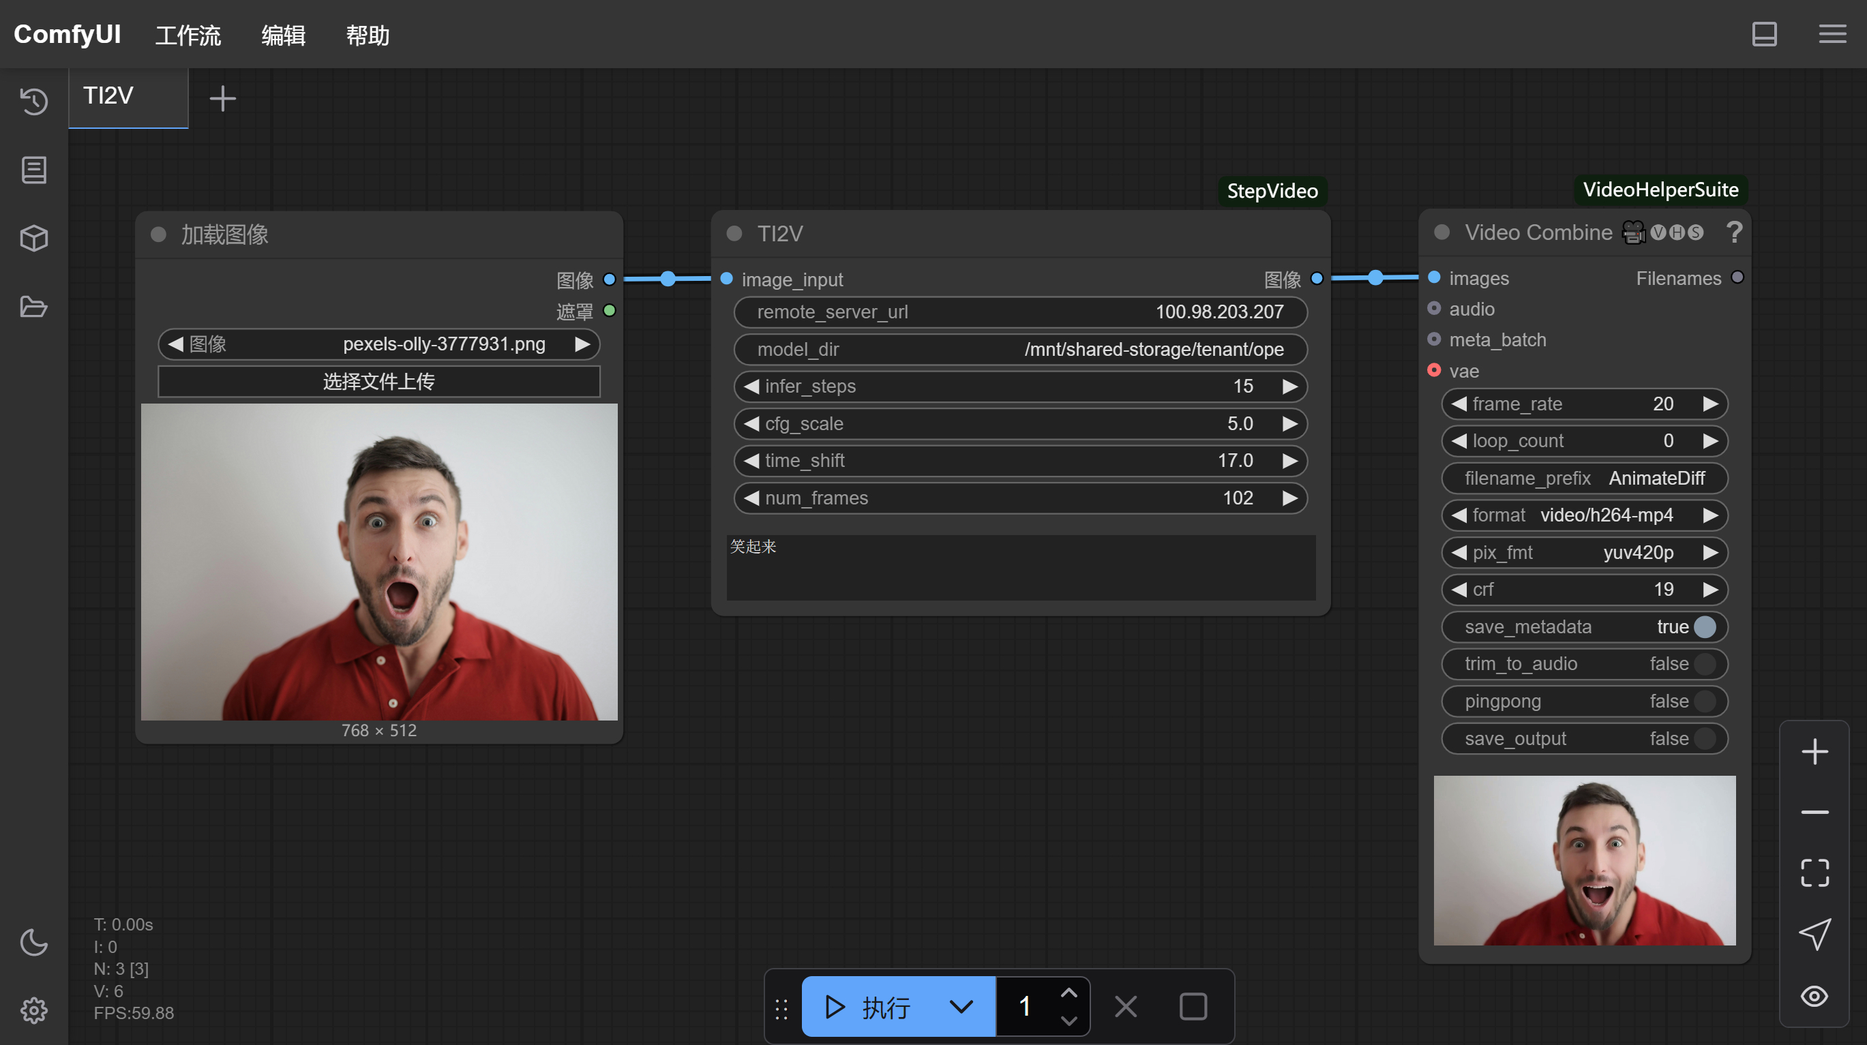
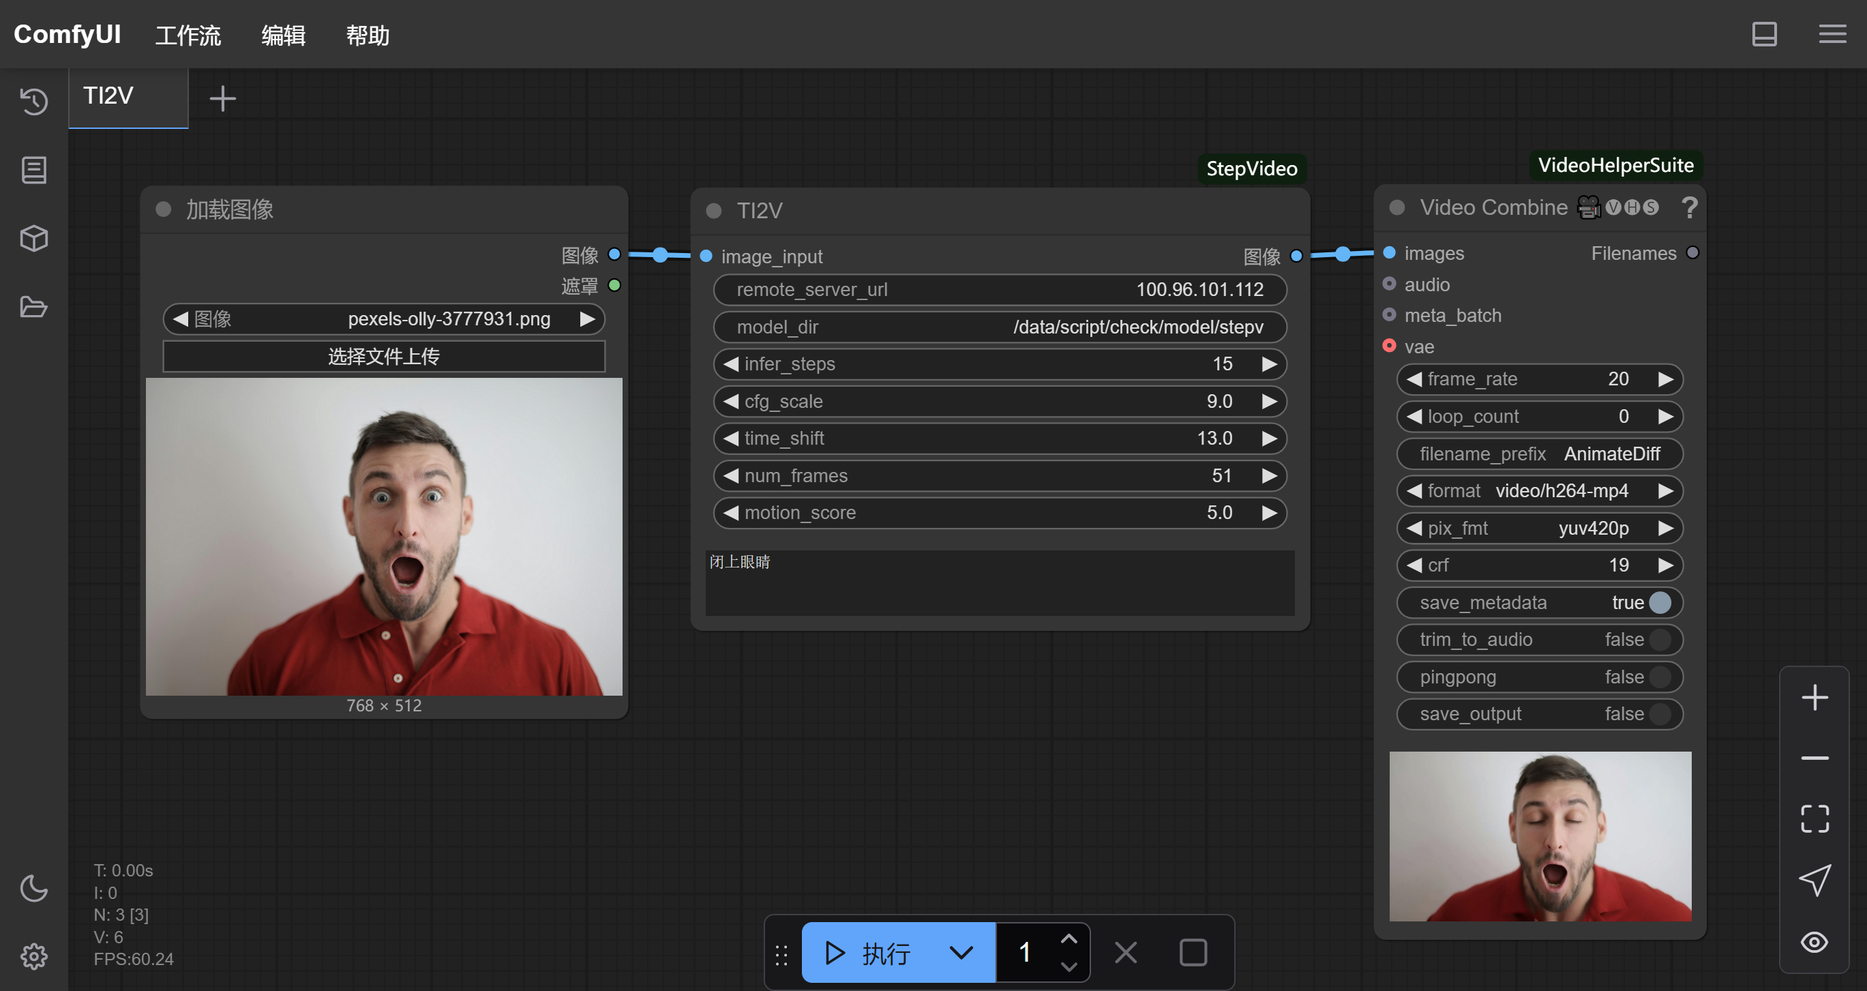
update motion score and default params

diff --git a/node.py b/node.py
@@ -32,24 +32,24 @@ class TI2V:
                     "lazy": True
                 }),
                 "infer_steps": ("INT", {
-                    "default": 15, 
+                    "default": 50, 
                     "min": 0, #Minimum value
-                    "max": 50, #Maximum value
+                    "max": 100, #Maximum value
                     "step": 1, #Slider's step
                     "display": "number", # Cosmetic only: display as "number" or "slider"
                     # "lazy": True # Will only be evaluated if check_lazy_status requires it
                 }),
                 "cfg_scale": ("FLOAT", {
-                    "default": 5.0,
+                    "default": 9,
                     "min": 0.0,
-                    "max": 20.0,
+                    "max": 50.0,
                     "step": 0.1,
                     # "round": 0.001, #The value representing the precision to round to, will be set to the step value by default. Can be set to False to disable rounding.
                     "display": "number",
                     # "lazy": True
                 }),
                 "time_shift": ("FLOAT", {
-                    "default": 17.0,
+                    "default": 13.0,
                     "min": 0.0,
                     "max": 50.0,
                     "step": 0.1,
@@ -60,10 +60,19 @@ class TI2V:
                 "num_frames": ("INT", {
                     "default": 102, 
                     "min": 0, #Minimum value
-                    "max": 150, #Maximum value
+                    "max": 204, #Maximum value
                     "step": 1, #Slider's step
                     "display": "number", # Cosmetic only: display as "number" or "slider"
                     # "lazy": True # Will only be evaluated if check_lazy_status requires it
+                }),
+                "motion_score": ("FLOAT", {
+                    "default": 5,
+                    "min": 0.0,
+                    "max": 50.0,
+                    "step": 0.1,
+                    # "round": 0.001, #The value representing the precision to round to, will be set to the step value by default. Can be set to False to disable rounding.
+                    "display": "number",
+                    # "lazy": True
                 }),
                 "text_prompt": ("STRING", {
                     "multiline": True,
@@ -76,7 +85,7 @@ class TI2V:
     RETURN_TYPES = ("IMAGE",)
     FUNCTION = "ti2v"
 
-    def ti2v(self, image_input, remote_server_url, model_dir, infer_steps, cfg_scale, time_shift, num_frames, text_prompt):
+    def ti2v(self, image_input, remote_server_url, model_dir, infer_steps, cfg_scale, time_shift, num_frames, motion_score, text_prompt):
         script_dir = 'custom_nodes/ComfyUI-StepVideo/Step-Video-TI2V'
         os.makedirs(f'{script_dir}/results', exist_ok=True)
         
@@ -85,7 +94,7 @@ class TI2V:
 
         parallel = 4 #
 
-        command = f'cd {script_dir} && torchrun --nproc_per_node {parallel} run_parallel.py --model_dir {model_dir} --vae_url {remote_server_url} --caption_url {remote_server_url}  --ulysses_degree {parallel} --first_image_path results/{task_name}_img.png --prompt "{text_prompt}" --infer_steps {infer_steps}  --cfg_scale {cfg_scale} --time_shift {time_shift} --num_frames {num_frames} --output_file_name {task_name}_vid'
+        command = f'cd {script_dir} && torchrun --nproc_per_node {parallel} run_parallel.py --model_dir {model_dir} --vae_url {remote_server_url} --caption_url {remote_server_url}  --ulysses_degree {parallel} --first_image_path results/{task_name}_img.png --prompt "{text_prompt}" --infer_steps {infer_steps}  --cfg_scale {cfg_scale} --time_shift {time_shift} --num_frames {num_frames} --output_file_name {task_name}_vid --motion_score {motion_score} --name_suffix comfyui'
         os.system(command)
 
         video_path = f'{script_dir}/results/{task_name}_vid-comfyui.mp4'

diff --git a/Step-Video-TI2V/stepvideo/config.py b/Step-Video-TI2V/stepvideo/config.py
@@ -156,13 +156,16 @@ def add_inference_args(parser: argparse.ArgumentParser):
 
     # Classifier-Free Guidance
     group.add_argument(
-        "--pos_magic", type=str, default="超高清、HDR 视频、环境光、杜比全景声、画面稳定、流畅动作、逼真的细节、专业级构图、超现实主义、自然、生动、超细节、清晰。", help="Positive magic prompt for sampling."
+        "--pos_magic", type=str, default="画面中的主体动作表现生动自然、画面流畅、生动细节、光线统一柔和、超真实动态捕捉、大师级运镜、整体不变形、超高清、画面稳定、逼真的细节、专业级构图、超细节、清晰。", help="Positive magic prompt for sampling."
     )
     group.add_argument(
-        "--neg_magic", type=str, default="画面暗、低分辨率、不良手、文本、缺少手指、多余的手指、裁剪、低质量、颗粒状、签名、水印、用户名、模糊。", help="Negative magic prompt for sampling."
+        "--neg_magic", type=str, default="动画、模糊、变形、毁容、低质量、拼贴、粒状、标志、抽象、插图、计算机生成、扭曲、动作不流畅、面部有褶皱、表情僵硬、畸形手指", help="Negative magic prompt for sampling."
     )
     group.add_argument(
         "--cfg_scale", type=float, default=9.0, help="Classifier free guidance scale."
+    )
+    group.add_argument(
+        "--motion_score", type=float, default=5, help="Score to control the motion level of the video."
     )
 
 

diff --git a/Step-Video-TI2V/stepvideo/diffusion/video_pipeline.py b/Step-Video-TI2V/stepvideo/diffusion/video_pipeline.py
@@ -83,7 +83,7 @@ class StepVideoPipeline(DiffusionPipeline):
         vae_url: str = '127.0.0.1',
         caption_url: str = '127.0.0.1',
         save_path: str = './results',
-        name_suffix: str = 'comfyui',
+        name_suffix: str = '',
     ):
         super().__init__()
 
@@ -99,7 +99,13 @@ class StepVideoPipeline(DiffusionPipeline):
         self.vae_url = vae_url
         self.caption_url = caption_url
         self.setup_api(self.vae_url, self.caption_url)
-        
+    
+    def setup_pipeline(self, args):
+        self.args = args
+        self.video_processor = VideoProcessor(self.args.save_path, self.args.name_suffix)
+        self.setup_api(args.vae_url, args.caption_url)
+        return self
+
     def setup_api(self, vae_url, caption_url):
         self.vae_url = vae_url
         self.caption_url = caption_url

diff --git a/Step-Video-TI2V/run_parallel.py b/Step-Video-TI2V/run_parallel.py
@@ -18,10 +18,7 @@ if __name__ == "__main__":
     pipeline = StepVideoPipeline.from_pretrained(args.model_dir).to(dtype=torch.bfloat16, device="cpu")
 
     pipeline.transformer = pipeline.transformer.to(device)
-    pipeline.setup_api(
-        vae_url = args.vae_url,
-        caption_url = args.caption_url,
-    )
+    pipeline.setup_pipeline(args)
     
     
     prompt = args.prompt
@@ -36,7 +33,8 @@ if __name__ == "__main__":
         time_shift=args.time_shift,
         pos_magic=args.pos_magic,
         neg_magic=args.neg_magic,
-        output_file_name=args.output_file_name
+        output_file_name=args.output_file_name,
+        motion_score=args.motion_score
     )
     
     dist.destroy_process_group()

diff --git a/Step-Video-TI2V/README.md b/Step-Video-TI2V/README.md
@@ -1,5 +1,3 @@
-# Step-Video-Ti2V
-
 <p align="center">
   <img src="assets/logo.png"  height=100>
 </p>
@@ -14,16 +12,186 @@
 </div>
 
 ## 🔥🔥🔥 News!!
-* Feb 17, 2025: 👋 We release the inference code and model weights of Step-Video-Ti2V. [Download](https://huggingface.co/stepfun-ai/stepvideo-ti2v)
-* Feb 17, 2025: 🎉 We have made our technical report available as open source. [Read](https://arxiv.org/abs/2502.10248)
+* Mar 17, 2025: 👋 We release the inference code and model weights of Step-Video-Ti2V. [Download](https://huggingface.co/stepfun-ai/stepvideo-ti2v)
+* Mar 17, 2025: 🎉 We have made our technical report available as open source. [Read](https://arxiv.org/abs/2502.10248)
 
+
+
+
+
+## Motion Control
+
+<table border="0" style="width: 100%; text-align: center; margin-top: 1px;">
+  <tr>
+    <td><video src="https://github.com/user-attachments/assets/3c6a5c8d-ada4-484f-8f3d-f2a99ef18a4b" width="30%" controls autoplay loop muted></video></td>
+    <td><video src="https://github.com/user-attachments/assets/90c608d9-b3cf-40fa-b4ee-21b682c840ae" width="30%" controls autoplay loop muted></video></td>
+    <td><video src="https://github.com/user-attachments/assets/e58d3a6b-0076-4587-aac5-6911ba4c776d" width="30%" controls autoplay loop muted></video></td>
+  </tr>
+</table>
+
+## Motion Amplitude Control
+
+<table border="0" style="width: 100%; text-align: center; margin-top: 10px;">
+  <tr>
+    <th style="width: 33%;">Motion = 2</th>
+    <th style="width: 33%;">Motion = 5</th>
+    <th style="width: 33%;">Motion = 10</th>
+  </tr>
+  <tr>
+    <td><video src="https://github.com/user-attachments/assets/0d6b1813-2bf0-462a-8ad4-c0583d83afc5" width="33%" controls autoplay loop muted></video></td>
+    <td><video src="https://github.com/user-attachments/assets/33699654-93cc-4205-8a47-93ece4282f72" width="33%" controls autoplay loop muted></video></td>
+    <td><video src="https://github.com/user-attachments/assets/52d73eb5-2c68-4de3-9019-516243804b2c" width="33%" controls autoplay loop muted></video></td>
+  </tr>
+</table>
+
+<table border="0" style="width: 100%; text-align: center; margin-top: 10px;">
+  <tr>
+    <th style="width: 33%;">Motion = 2</th>
+    <th style="width: 33%;">Motion = 5</th>
+    <th style="width: 33%;">Motion = 20</th>
+  </tr>
+  <tr>
+    <td><video src="https://github.com/user-attachments/assets/31c48385-fe83-4961-bd42-7bd2b1edeb19" width="33%" controls autoplay loop muted></video></td>
+    <td><video src="https://github.com/user-attachments/assets/913a407e-55ca-4a33-bafe-bd5e38eec5f5" width="33%" controls autoplay loop muted></video></td>
+    <td><video src="https://github.com/user-attachments/assets/119a3673-014f-4772-b846-718307a4a412" width="33%" controls autoplay loop muted></video></td>
+  </tr>
+</table>
+
+🎯 Tips 
+The default motion_score = 5 is suitable for general use. If you need more stability, set motion_score = 2, though it may be less responsive to certain movements. For greater movement flexibility, you can use motion_score = 10 or motion_score = 20 to enable more intense actions. Feel free to customize the motion_score based on your creative needs to fit different use cases.
+
+## Camera Control
+
+<table border="0" style="width: 100%; text-align: center; margin-top: 1px;">
+  <tr>
+    <th style="width: 33%;">镜头环绕</th>
+    <th style="width: 33%;">镜头推进</th>
+    <th style="width: 33%;">镜头拉远</th>
+  </tr>
+  <tr>
+    <td><video src="https://github.com/user-attachments/assets/257847bc-5967-45ba-a649-505859476aad" height="30%" controls autoplay loop muted></video></td>
+    <td><video src="https://github.com/user-attachments/assets/d310502a-4f7e-4a78-882f-95c46b4dfe67" height="30%" controls autoplay loop muted></video></td>
+    <td><video src="https://github.com/user-attachments/assets/f6426fc7-2a18-474c-9766-fc8ae8d8d40d" height="30%" controls autoplay loop muted></video></td>
+  </tr>
+</table>
+
+<table border="0" style="width: 100%; text-align: center; margin-top: 1px;">
+  <tr>
+    <th style="width: 33%;">镜头固定</th>
+    <th style="width: 33%;">镜头左移</th>
+    <th style="width: 33%;">镜头右摇</th>
+  </tr>
+  <tr>
+    <td><video src="https://github.com/user-attachments/assets/f78f76a0-afe1-41b1-9914-f2f508c6ea50" width="30%" controls autoplay loop muted></video></td>
+    <td><video src="https://github.com/user-attachments/assets/3894ec0f-d483-41fe-8331-68b6e5bf6544" width="30%" controls autoplay loop muted></video></td>
+    <td><video src="https://github.com/user-attachments/assets/9de3aa20-c797-4dac-bef1-ee064ed96ed4" width="30%" controls autoplay loop muted></video></td>
+  </tr>
+</table>
+
+🎥 Camera Motion Tips
+Fixed Camera
+Pan (Up/Down/Left/Right)
+Tilt (Up/Down/Left/Right)
+Zoom In / Zoom Out
+Dolly In / Dolly Out
+Camera Rotation
+Tracking Shot (Follow xxx)
+Orbit Shot (Circle Around xxx)
+Rack Focus (Focus Shift)
+Camera Shake
+High-Angle Dolly In / Dolly Out
+
+🎬 Advanced Movements
+Dolly Zoom (Hitchcock Effect)
+Grammy-Style Motion
+
+<table border="0" style="width: 100%; text-align: center; margin-top: 1px;">
+  <tr>
+    <th style="width: 50%;">摄像机从下到中顺时针绕人物移动，镜头推远，1秒后慢镜头拍摄，人物从斜侧背对镜头，转过身正面面对镜头</th>
+    <th style="width: 50%;">摄像机从下到中顺时针绕人物90度移动，镜头拉近，1秒后慢镜头拍摄，人物从背对镜头，身体逆时针旋转 180 度最终正对镜头</th>
+  </tr>
+  <tr>
+    <td><video src="https://github.com/user-attachments/assets/e2931131-e159-44ea-91a8-82bfe7886447" height="10%" width="50%" controls autoplay loop muted></video></td>
+    <td><video src="https://github.com/user-attachments/assets/6e4b893a-51bf-49b0-8335-13674da3162b" height="10%" width="50%" controls autoplay loop muted></video></td>
+  </tr>
+</table>
+
+
+🔧 Motion Score Considerations
+Certain camera movements, especially tracking shots, orbit shots, and complex motion effects, work significantly better with motion_score = 5 or 10 rather than motion_score = 2. Choosing the right setting can greatly enhance motion smoothness and accuracy.
+## Visual Effects
+
+<table border="0" style="width: 100%; text-align: center; margin-top: 1px;">
+  <tr>
+    <th style="width: 33%;">机器人变身特效</th>
+    <th style="width: 33%;">机器人变身特效</th>
+    <th style="width: 33%;">机器人变身特效</th>
+  </tr>
+  <tr>
+    <td><video src="https://github.com/user-attachments/assets/8fc6cc28-802c-4eff-bb18-6d512386d1f5" height="30%" controls autoplay loop muted></video></td>
+    <td><video src="https://github.com/user-attachments/assets/a6e4c817-3847-4ece-8b14-c57c4f666ba5" height="30%" controls autoplay loop muted></video></td>
+    <td><video src="https://github.com/user-attachments/assets/3cc15523-4dbe-4a39-9a1f-71fd2aeebf98" height="30%" controls autoplay loop muted></video></td>
+  </tr>
+</table>
+
+<table border="0" style="width: 100%; text-align: center; margin-top: 1px;">
+  <tr>
+    <th style="width: 33%;">毒液变身特效</th>
+    <th style="width: 33%;">机器人变身特效</th>
+    <th style="width: 33%;">毒液变身特效</th>
+  </tr>
+  <tr>
+    <td><video src="https://github.com/user-attachments/assets/b2fbc737-b6b5-480a-b747-09ee58058a05" height="30%" controls autoplay loop muted></video></td>
+    <td><video src="https://github.com/user-attachments/assets/ba19d48e-0e99-4dd6-8efb-f9c7f21372a6" height="30%" controls autoplay loop muted></video></td>
+    <td><video src="https://github.com/user-attachments/assets/b3e27eda-8127-4680-8da1-99fa0281335d" height="30%" controls autoplay loop muted></video></td>
+  </tr>
+</table>
+
+
+
+
+## Table of Contents
+
+1. [Introduction](#1-introduction)
+2. [Model Summary](#2-model-summary)
+3. [Model Download](#3-model-download)
+4. [Model Usage](#4-model-usage)
+5. [Benchmark](#5-benchmark)
+6. [Online Engine](#6-online-engine)
+7. [Citation](#7-citation)
+8. [Acknowledgement](#8-ackownledgement)
+
+
+
+## 1. Introduction
+We present Step-Video-TI2V, a state-of-the-art text-driven image-to-video generation model with 30B parameters, capable of generating videos up to 102 frames
+based on both text and image inputs. We build Step-Video-TI2V-Eval as a new benchmark for the text-driven image-to-video task and compare Step-Video-TI2V
+with open-source and commercial TI2V engines using this dataset. Experimental results demonstrate the state-of-the-art performance of Step-Video-TI2V in the
+image-to-video generation task. Both Step-Video-TI2V and Step-Video-TI2V-Eval are available.
+
+## 2. Model Summary
+Step-Video-TI2V based on Step-Video-T2V. To incorporate the image condition as the first frame of the generated video, we encode it into latent representations using Step-Video- T2V’s Video-VAE and concatenate them along the channel dimension of the video latent. Additionally, we introduce a motion score condition, enabling users to control the dynamic level of the video generated from the image condition. Figure 1 shows an overview of our framework, highlighting these two modifications to the pre-trained T2V model. 
+
+<p align="center">
+  <img width="80%" src="assets/model.png">
+</p>
+
+## 3. Model Download
+| Models   | 🤗Huggingface    |  🤖Modelscope |
+|:-------:|:-------:|:-------:|
+| Step-Video-T2V | [download](https://huggingface.co/stepfun-ai/stepvideo-ti2v) | 
+
+
+## 4. Model Usage
+
+### 📜 4.1  Dependencies and Installation
 
 ```bash
 git clone https://github.com/stepfun-ai/Step-Video-TI2V.git
 conda create -n stepvideo python=3.10
 conda activate stepvideo
 
-cd StepFun-StepVideo
+cd Step-Video-TI2V
 pip install -e .
 ```
 
@@ -35,5 +203,59 @@ parallel=4  # or parallel=8
 url='127.0.0.1'
 model_dir=where_you_download_dir
 
-torchrun --nproc_per_node $parallel run_parallel --model_dir $model_dir --vae_url $url --caption_url $url  --ulysses_degree  $parallel --prompt "笑起来" --infer_steps 15  --cfg_scale 5.0 --time_shift 17.0
+torchrun --nproc_per_node $parallel run_parallel.py --model_dir $model_dir --vae_url $url --caption_url $url  --ulysses_degree  $parallel --prompt "笑起来" --first_image_path ./assets/demo.png --infer_steps 50  --cfg_scale 9.0 --time_shift 13.0 --motion_score 5.0
 ```
+
+We list some more useful configurations for easy usage:
+
+|        Argument        |  Default  |                Description                |
+|:----------------------:|:---------:|:-----------------------------------------:|
+|       `--model_dir`       |   None    |   The model checkpoint for video generation    |
+|     `--prompt`     | “笑起来”  |      The text prompt for I2V generation      |
+|    `--first_image_path`    |    ./assets/demo.png    |     The reference image path for I2V task.     |
+|    `--infer_steps`     |    50     |     The number of steps for sampling      |
+| `--cfg_scale` |    9.0    |    Embedded  Classifier free guidance scale       |
+|     `--time_shift`     |    7.0    | Shift factor for flow matching schedulers. |
+|     `--motion_score`   |    5.0  | Score to control the motion level of the video. |
+|        `--seed`        |     None  |   The random seed for generating video, if None, we init a random seed    |
+|  `--use-cpu-offload`   |   False   |    Use CPU offload for the model load to save more memory, necessary for high-res video generation    |
+|     `--save-path`      | ./results |     Path to save the generated video      |
+
+
+## 5. Benchmark
+We first evaluated on VBench-I2V is a comprehensive benchmark suite that deconstructs “video generation
+quality” into specific, hierarchical, and disentangled dimensions, each with tailored prompts and evaluation methods. We utilize the VBench-I2V benchmark to assess the performance of Step-Video-
+TI2V alongside other TI2V models.
+
+<p align="center">
+  <img width="80%" src="assets/compare_1.png">
+</p>
+
+We are releasing [Step-Video-Ti2V Eval](https://github.com/stepfun-ai/Step-Video-T2V/blob/main/benchmark/Step-Video-TI2V-Eval) , a new benchmark designed for the text-driven image-to-video
+generation task. The dataset comprises 178 real-world and 120 anime-style prompt-image pairs, ensuring broad coverage of diverse user scenarios. To achieve comprehensive representation, we
+developed a fine-grained schema for data collection in both categories. We compare Step-Video-TI2V with two recently released open-source TI2V models, OSTopA and
+OSTopB, as well as two close-source commercial TI2V models, CSTopC and CSTopD. All these four models originate from China. Generally, Step-Video-TI2V achieves state-of-the-art performance on the total score across the
+three evaluation dimensions in Step-Video-TI2V-Eval, either outperforming or matching leading open-source and closed-source commercial TI2V models.
+
+<p align="center">
+  <img width="80%" src="assets/compare_2.png">
+</p>
+
+
+
+## 6. Online Engine
+The online version of Step-Video-T2V is available on [跃问视频](https://yuewen.cn/videos), where you can also explore some impressive examples.
+
+## 7. Citation
+```
+@misc{ma2025stepvideot2vtechnicalreportpractice,
+      title={Step-Video-Ti2V Technical Report: The Practice, Challenges, and Future of Video Foundation Model}, 
+      author={Guoqing Ma and Haoyang Huang and Kun Yan and Liangyu Chen and Nan Duan and Shengming Yin and Changyi Wan and Ranchen Ming and Xiaoniu Song and Xing Chen and Yu Zhou and Deshan Sun and Deyu Zhou and Jian Zhou and Kaijun Tan and Kang An and Mei Chen and Wei Ji and Qiling Wu and Wen Sun and Xin Han and Yanan Wei and Zheng Ge and Aojie Li and Bin Wang and Bizhu Huang and Bo Wang and Brian Li and Changxing Miao and Chen Xu and Chenfei Wu and Chenguang Yu and Dapeng Shi and Dingyuan Hu and Enle Liu and Gang Yu and Ge Yang and Guanzhe Huang and Gulin Yan and Haiyang Feng and Hao Nie and Haonan Jia and Hanpeng Hu and Hanqi Chen and Haolong Yan and Heng Wang and Hongcheng Guo and Huilin Xiong and Huixin Xiong and Jiahao Gong and Jianchang Wu and Jiaoren Wu and Jie Wu and Jie Yang and Jiashuai Liu and Jiashuo Li and Jingyang Zhang and Junjing Guo and Junzhe Lin and Kaixiang Li and Lei Liu and Lei Xia and Liang Zhao and Liguo Tan and Liwen Huang and Liying Shi and Ming Li and Mingliang Li and Muhua Cheng and Na Wang and Qiaohui Chen and Qinglin He and Qiuyan Liang and Quan Sun and Ran Sun and Rui Wang and Shaoliang Pang and Shiliang Yang and Sitong Liu and Siqi Liu and Shuli Gao and Tiancheng Cao and Tianyu Wang and Weipeng Ming and Wenqing He and Xu Zhao and Xuelin Zhang and Xianfang Zeng and Xiaojia Liu and Xuan Yang and Yaqi Dai and Yanbo Yu and Yang Li and Yineng Deng and Yingming Wang and Yilei Wang and Yuanwei Lu and Yu Chen and Yu Luo and Yuchu Luo and Yuhe Yin and Yuheng Feng and Yuxiang Yang and Zecheng Tang and Zekai Zhang and Zidong Yang and Binxing Jiao and Jiansheng Chen and Jing Li and Shuchang Zhou and Xiangyu Zhang and Xinhao Zhang and Yibo Zhu and Heung-Yeung Shum and Daxin Jiang},
+      year={2025},
+      eprint={2502.10248},
+      archivePrefix={arXiv},
+      primaryClass={cs.CV},
+      url={https://arxiv.org/abs/2502.10248}, 
+}
+```
+
